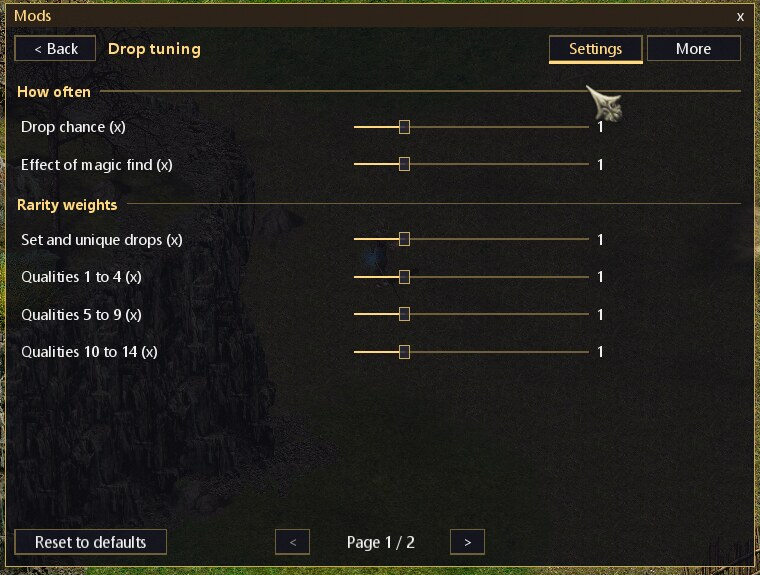
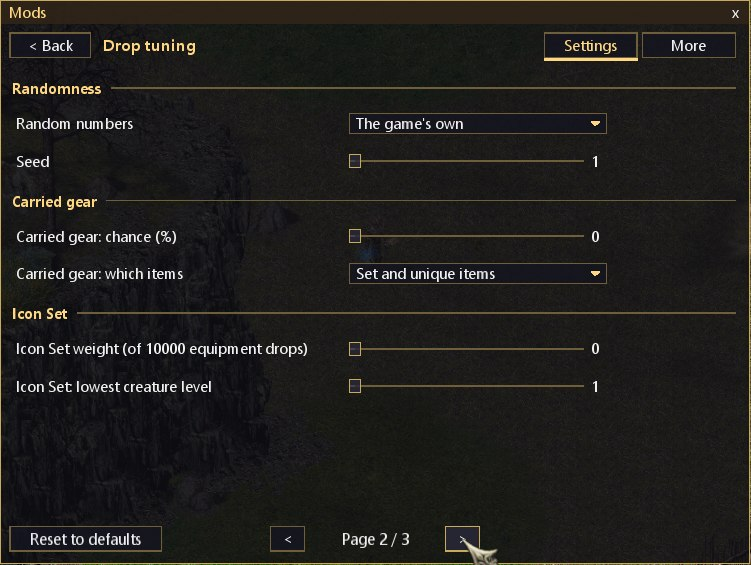
drop-tuning: settings page order, docs and screenshot for carried gear; readme-shots wheel step

diff --git a/docs/DropTuning.md b/docs/DropTuning.md
@@ -2,8 +2,8 @@
 
 ![The Drop tuning page of the Mods screen](images/drop-tuning.jpg)
 
-Makes creature drops more or less frequent, tilts the rarity of what they drop and, if you like, swaps the game's random numbers for a fair
-generator. Switched on, with every setting at its default, it changes nothing. It is built on `gear.drops` of Sacred Gear (what the engine does and what
+Makes creature drops more or less frequent, tilts the rarity of what they drop, lets creatures drop the gear you could otherwise only take with the
+Disarming skill and, if you like, swaps the game's random numbers for a fair generator. Switched on, with every setting at its default, it changes nothing. It is built on `gear.drops` of Sacred Gear (what the engine does and what
 each setting touches: [Gear drops](https://github.com/kirides/sacred-bild/blob/main/docs/GearDrops.md)).
 
 Install it like the other mods (copy `src\drop-tuning` to the game's `mods` folder, **F11**, switch it on). It binds no keys; its settings are on its page
@@ -16,9 +16,11 @@ of the Mods screen (mouse or controller), and the **More** tab shows the game's 
 | Set and unique drops | The two rows of the rarity table that hand the roll to the set / unique selection. |
 | Qualities 1 to 4 / 5 to 9 / 10 to 14 | Multipliers of the weights of those equipment qualities (14 is the best). Setting the top group to 0 removes the best items; plain items are what is left over. The weights are read as a running sum against a roll of 1 to 10000, so large multipliers push the commoner qualities out of reach (see the Gear drops page). |
 | Icon Set weight | The six pieces of the Icon Set (Dragon, Dark Elf, Royal and Seraphim statue, Grail, Shell; the Flaming Feet set bonus) are level 1 set items; the game's set drops are rare and shared with about 65 other sets, so they are hardly ever seen at higher levels (roughly 0.01% of equipment drops or less). This is the number out of 10000 random equipment drops of a creature that become one of them instead (10 = 0.1%, one in a thousand; 0 = off). The **More** tab shows the percentage and "one in N" at your hero's level. Also *lowest creature level* and *extra weight per level*. Creature loot only, not chests, shops or quest rewards. Flaming Feet makes Split clone more and Fadalmar's Counsel cast more fireballs, does little damage and can cause lag in multiplayer. |
+| Carried gear: chance | Some creatures carry a unique or set item (Khrag's armor and helm, the X-MAS sword, the shields of the ice elves, Bahamut's Breastplate ...) that only the Disarming skill takes from them. This is the chance, in percent, that every such item drops when the creature dies, so a hero without the skill can get them too. 0 = off, the game as it is (the default). Each item is rolled once per creature, and the drop is a new item of the same type lying at the corpse, as disarming gives it: the item's own fixed level and lowest tier, not the creature's level. Single player only (the game server cannot create the items). |
+| Carried gear: which items | *Set and unique items* (the default; what can be disarmed) or *All equipment* the creature carries, which includes the plain weapons and armour of orcs, goblins and the like. |
 | Random numbers | The game's own; a fair generator (no modulo bias: the game's rarity roll favours the first part of its range, which makes every rarer drop about 22% more likely than the table says); or the fair generator with a seed, which repeats the same numbers every run. |
 
-Other mods can steer it: `gear.emit('drop-tuning.configure', {chance = 2, high = 0, rng = 'fair', icon_weight = 10})` sets those settings.
+Other mods can steer it: `gear.emit('drop-tuning.configure', {chance = 2, high = 0, rng = 'fair', icon_weight = 10, carry_chance = 100})` sets those settings.
 
 ## Self test
 
@@ -29,10 +31,11 @@ Sacred.exe -gear-auto -gear-load=1 -gear-instance=droptuning -gear-mods=drop-tun
 ```
 
 It checks that the defaults leave the rarity table and the generator alone, that the settings change the table, the drop rate (twice the chance: 160 against 85
-equipment drops in 400 rolls in the last run) and the generator, and that the defaults bring everything back (9 checks).
+equipment drops in 400 rolls in the last run) and the generator, that the Icon Set weight turns picks into pieces, that creatures that carry items drop them (not with the *Set and unique items* filter for plain gear, not at chance 0, all of them once at 100% and lying at the creature) and that the defaults bring everything back (18 checks). The carried-gear check runs the engine's loot function on an orc that holds weapons, so it needs Sacred Gear with `creature:carried()` and the `drops.roll` event's `id`; no real kill and no real disarmable creature (Khrag's priestess ...) is in that savegame.
 
 ## Development
 
-- **Files:** `src/drop-tuning/mod.lua` (settings) and `main.lua` (about 100 lines). Self test: `src/drop-tuning_selftest`.
-- **Depends on:** `gear.drops` (hooks into the game's loot functions: drop chance, rarity weights, the random numbers), `gear.mods.page`, `gear.settings`, `gear.ui`. Settings that are at "as the game has it" leave the game untouched.
+- **Files:** `src/drop-tuning/mod.lua` (settings) and `main.lua` (about 170 lines). Self test: `src/drop-tuning_selftest`.
+- **Carried gear:** a creature keeps its items in the 19 equipment words at +0x1A4 of its object, as heroes do (`creature:carried()`, new in Sacred Gear; `creature:equipment()` is for heroes only). The mod listens to `drops.roll` (its event now carries the object `id`) only while the chance is above 0, reads what the dying creature carries, rolls each item once and creates the drop with `gear.world.spawn(type, ...)` a moment later. Not verified in the game: which creatures hold which special items; the test only uses plain gear.
+- **Depends on:** `gear.drops` (hooks into the game's loot functions: drop chance, rarity weights, the random numbers), `gear.world.object(id):carried()`, `gear.world.spawn`, `gear.mods.page`, `gear.settings`, `gear.ui`. Settings that are at "as the game has it" leave the game untouched.
 - **API reference:** [GearDrops](https://github.com/kirides/sacred-bild/blob/main/docs/GearDrops.md), [GearApi](https://github.com/kirides/sacred-bild/blob/main/docs/GearApi.md).

diff --git a/README.md b/README.md
@@ -18,7 +18,7 @@ Pictures marked as illustrations (`.svg`) show example values; they will be repl
 | [**Better SaveLoad**](src/better-saveload/README.md) | <img src="docs/images/better-saveload.jpg" width="220" alt="Better SaveLoad"> | A clearer savegame screen with the Save tab first. |
 | [**Enhanced Chat**](docs/mods/enhanced-chat.md) | <img src="docs/images/enhanced-chat.jpg" width="220" alt="Enhanced Chat"> | A chat window with scrollback, tabs for global, private and system messages, a player filter and item names in their rarity colour. |
 | [**Key bindings**](docs/mods/key-bindings.md) | <img src="docs/images/key-bindings.jpg" width="220" alt="Key bindings"> | Choose the keys and mouse buttons of the game's actions (two per action), and quick cast combat arts with one press. |
-| [**Drop tuning**](docs/DropTuning.md) | <img src="docs/images/drop-tuning.jpg" width="220" alt="Drop tuning"> | More or fewer drops, better rarity odds, optional fair random numbers. |
+| [**Drop tuning**](docs/DropTuning.md) | <img src="docs/images/drop-tuning.jpg" width="220" alt="Drop tuning"> | More or fewer drops, better rarity odds, creatures drop the gear you could otherwise only disarm from them, optional fair random numbers. |
 | [**Loot filter**](docs/mods/lootfilter.md) | <img src="docs/images/lootfilter.jpg" width="220" alt="Loot filter"> | Picks up only the items you want and dims the rest on the ground. F5. |
 | [**Loot log**](docs/mods/lootlog.md) | <img src="docs/images/lootlog.svg" width="220" alt="Loot log"> | A list of what dropped and what you picked up. F3. |
 | [**Companions**](docs/mods/companions.md) | <img src="docs/images/companions.jpg" width="220" alt="Companions"> | A party of heroes in single player: recruit companions of any class with their own gear, skills and experience, play any of them (click a portrait, PageDown), the others follow and fight with their combat arts, spells and combos. Home. |
@@ -105,7 +105,7 @@ The self tests run the real game without a player (`-gear-auto`); see each mod's
 |---|---|
 | [Install](docs/Install.md) | Installing Sacred Gear and the mods, the Mods screen, updating |
 | [Autosave](docs/Autosave.md) | Timer, slots, settings, loading an autosave |
-| [Drop tuning](docs/DropTuning.md) | Drop chance, rarity weights, the generator; the self test |
+| [Drop tuning](docs/DropTuning.md) | Drop chance, rarity weights, carried gear, the generator; the self test |
 | [Shared stash](docs/SharedStash.md) | Using the stash, LAN, limits, the file, savegame caveats |
 | [Server mods](docs/ServerMods.md) | The five clients of the remake server's scripts: install, hotkeys, settings |
 | [Mod events](docs/ModEvents.md) | Events mods publish for other mods (bounty, quests, world events) and how to subscribe |

diff --git a/docs/Screenshots.md b/docs/Screenshots.md
@@ -20,7 +20,7 @@ pictures and leaves BMP files in `GearAutomation\shot-<name>\`. Convert them to 
 ## More pictures (`tools/readme-shots`, phases of `main.lua`)
 
 Run a phase with `-gear-mods=<mod>,shots` after writing `mods\shots\config.lua` (`return {phase = '...'}`):
-`lootfilter`, `modscreen` (Mods screen, `clicks = {{x, y}, ...}` open a mod's page), `fight` (zombies/spiders spawned next to
+`lootfilter`, `modscreen` (Mods screen, `clicks = {{x, y}, ...}` open a mod's page; `{x, y, wheel = n}` turns the mouse wheel there), `fight` (zombies/spiders spawned next to
 the hero: damage meter, session tracker), `twitch` (a `TWI_Raid` for the Twitch actions) and `server`
 (`which = 'achievements' | 'bounty' | 'buildsharer' | 'questhelper' | 'serverfeed'`). The bounty picture does not come from this phase any more: it is the bounty mod's single player board
 (`bounty_selftest` with `return {phase = 'shots'}`), the real panel and tracker, no server.
